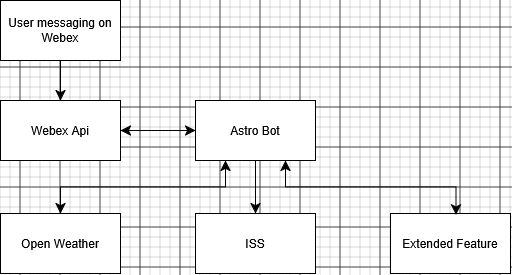
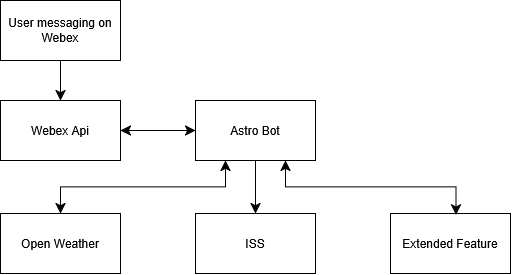
Expand API and MVC documentation
Add explanations of API usage, key handling, and MVC components in the README, and update the architecture diagram.

Changed region(s): [[0.0, 0.0, 1.0, 1.0]]

diff --git a/README.md b/README.md
@@ -183,6 +183,7 @@ In the scenario we have the users who are the clients they are messeging through
 #### Security Considerations: (3 marks )
 Hardcoding keys ive done through a json file added to the gitignore list.
 keys.json in the main folder organaised as so 
+</br>
 {
     "keys":
     {
@@ -190,7 +191,9 @@ keys.json in the main folder organaised as so
         "Open-Weather":"Open Weather API Key"
     }
 }
-this makes it so the python code can read the json and get the appropriate keys while not uploading them to github
+</br>
+This makes it so the python code can read the json and get the appropriate keys while not uploading them to github
+
 ---
 ### RESTful API Usage in Your Application (3 marks )
 Explain how REST APIs are used in your AstroBot:
@@ -198,18 +201,24 @@ Explain how REST APIs are used in your AstroBot:
 - Explain how your bot interacts with APIs (Webex, Weather, ISS, Geocoding)
 - Describe how JSON responses are received and processed
 Note: Relate your explanation directly to your code for higher grade.
+
+The bot uses **POST** and **GET** requests to read and reply to the messeges through Webex using Get to read new messeges and post to send the response.
+
+We utilize the requests libary to send the post and get requests and the JSON libary to read the fields from the api responses such as items, id, and text from webex or lat and lon from geocoding.
+
 #### Security Considerations: (2 marks)
-- Check response status codes, Handling invalid or unexpected API responses,
-Avoiding excessive API calls
+We can check status codes with the responses and compare them to a value of 200 with 200 meaning ok anything else we can mark as a fail and report that to the terminal or the user.
 ---
 ### MVC Design Pattern in AstroBot (3 Marks)
-Explain how the **Model–View–Controller (MVC)** pattern applies to your solution:
-Provide a short example based on your implementation
+
+Astro bot has the model side the different functions to retrive data, the view side where it posts messeges to terminal or the chatroom and the controler side where it allows the user to use slash commands to opperate its different functions.
+
 | Component | Description and Example (Relate to your Bot) |
 |------------|----------------------------------|
-| **Model** | |
-| **View** | |
-| **Controller** | |
+| **Model** | | we have numerus functions to retive data get_rooms(), get_city_coordinates() etc can all be viewed as the model
+| **View** | | print_rooms() shows the rooms in terminal to allow the user to set the bot to join, send_message() is what allows the bot to post inside of the room
+| **Controller** | | The / Commands such as help, quit and the api specific ones such as /weather (location)
+
 ---
 ### 🚀 Reflection and Evaluation ( 8 marks )
 Reflect on your AstroBot (400 words):
